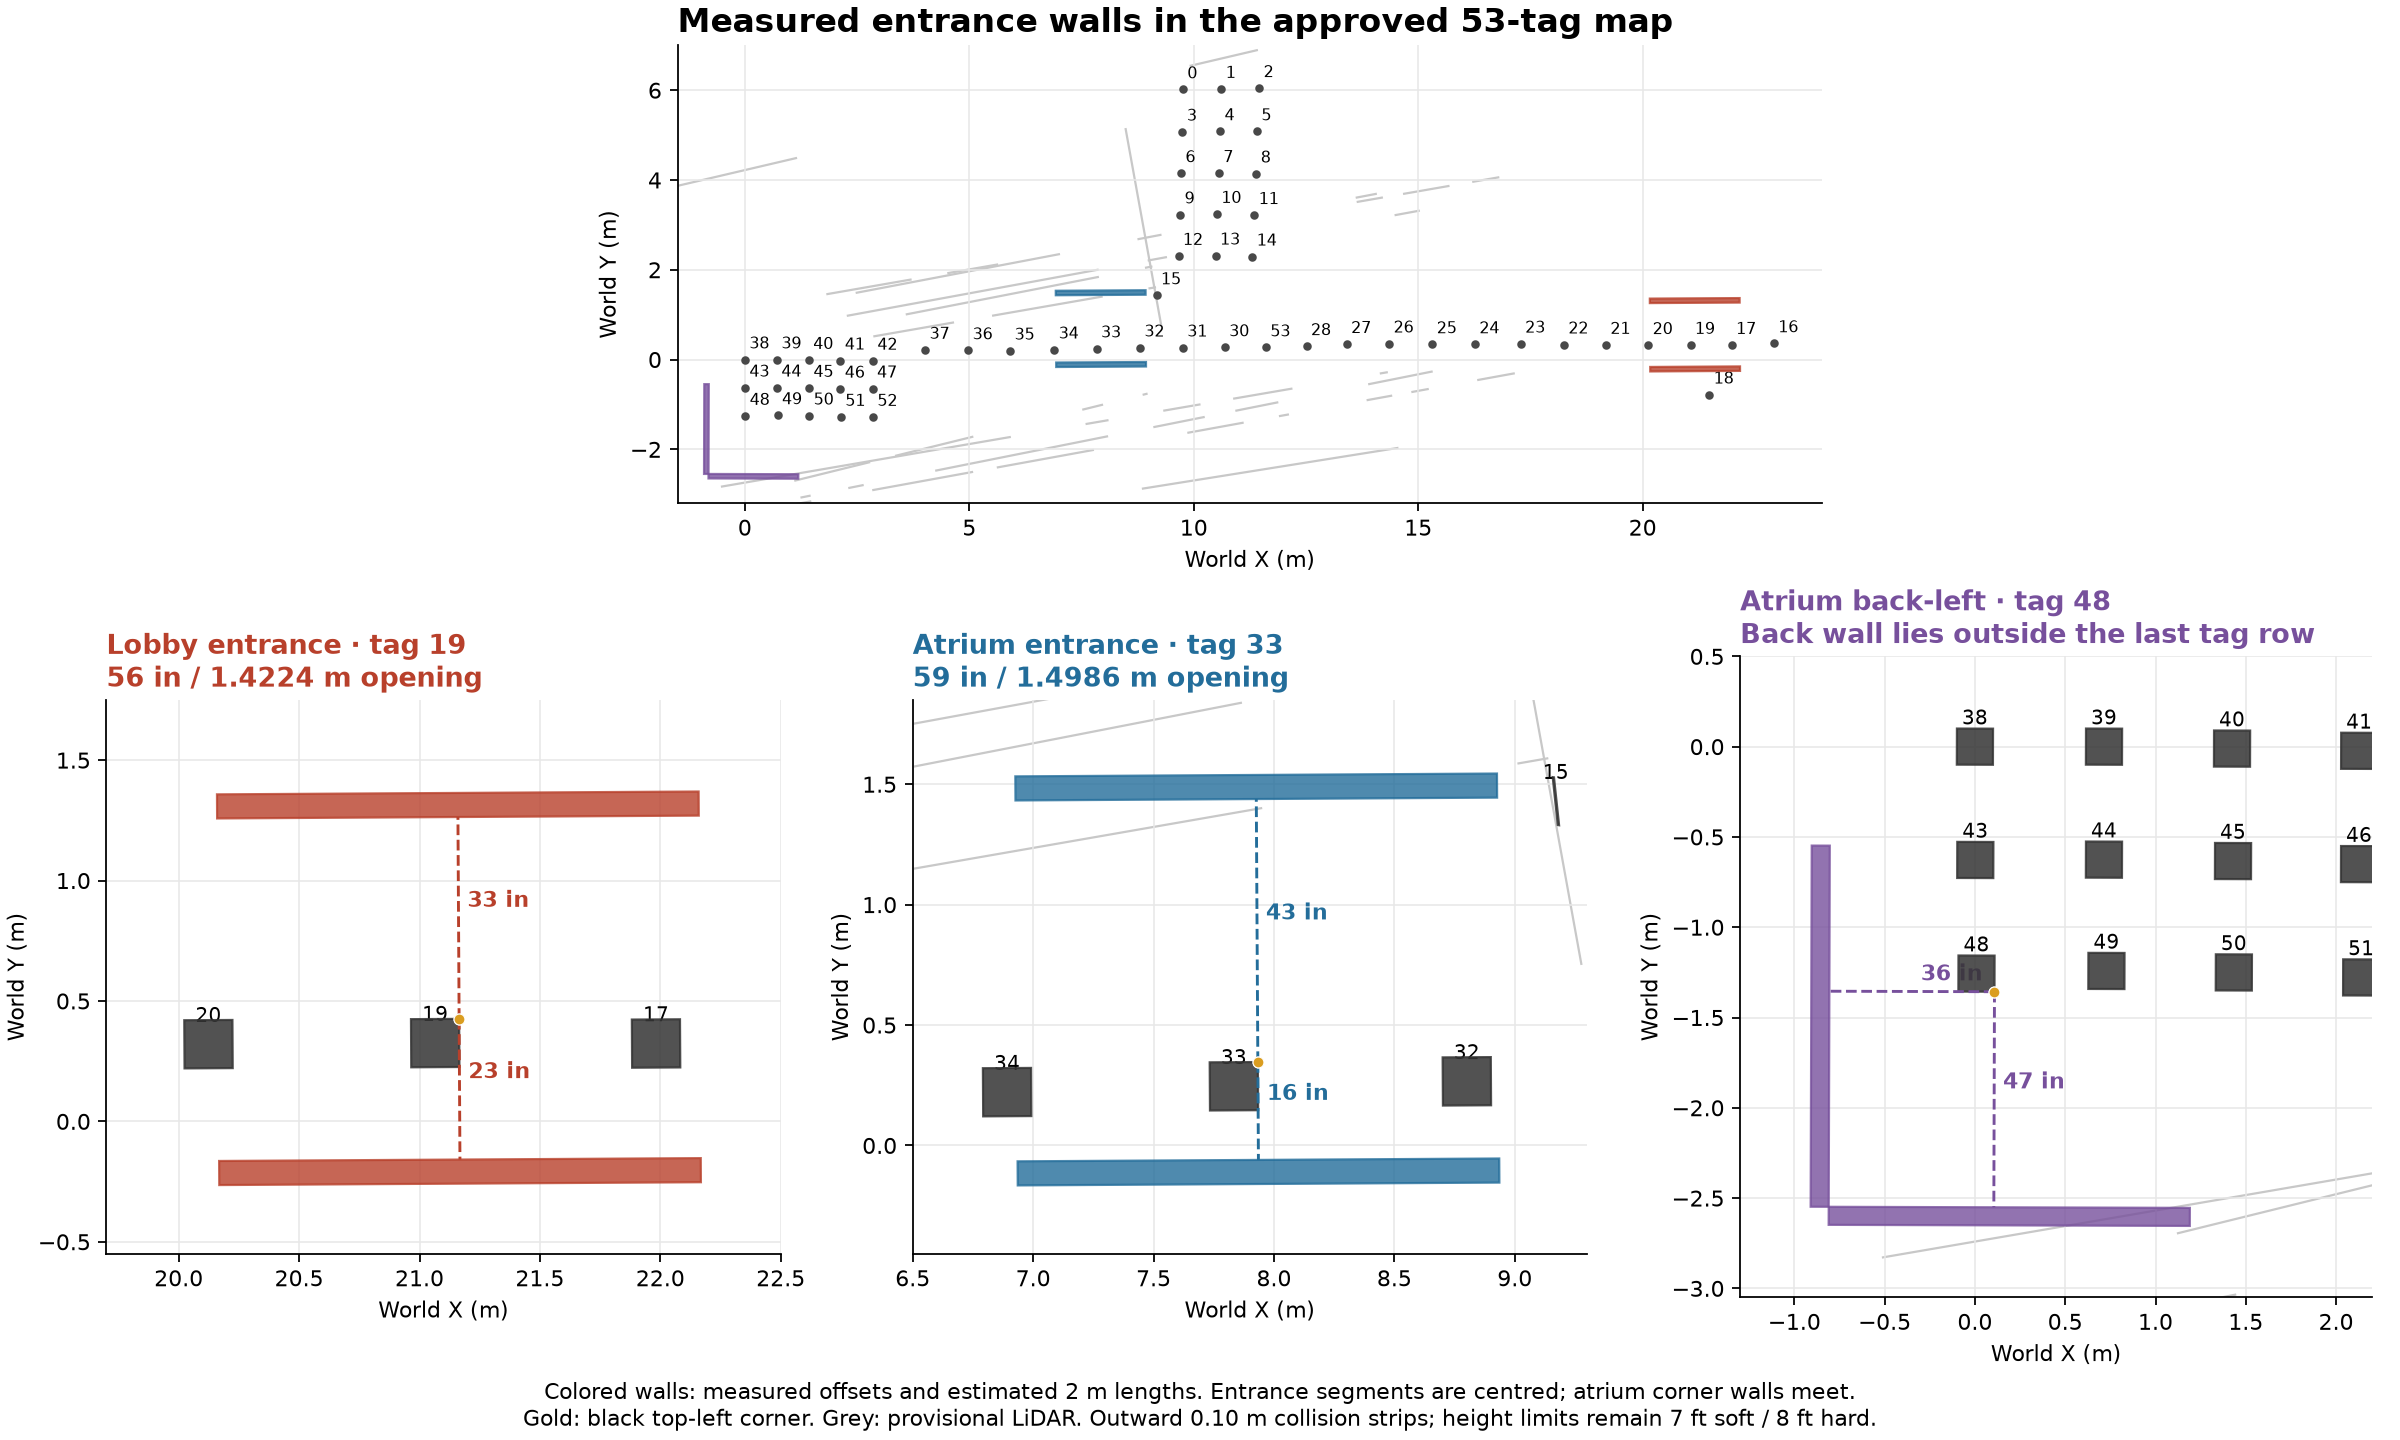
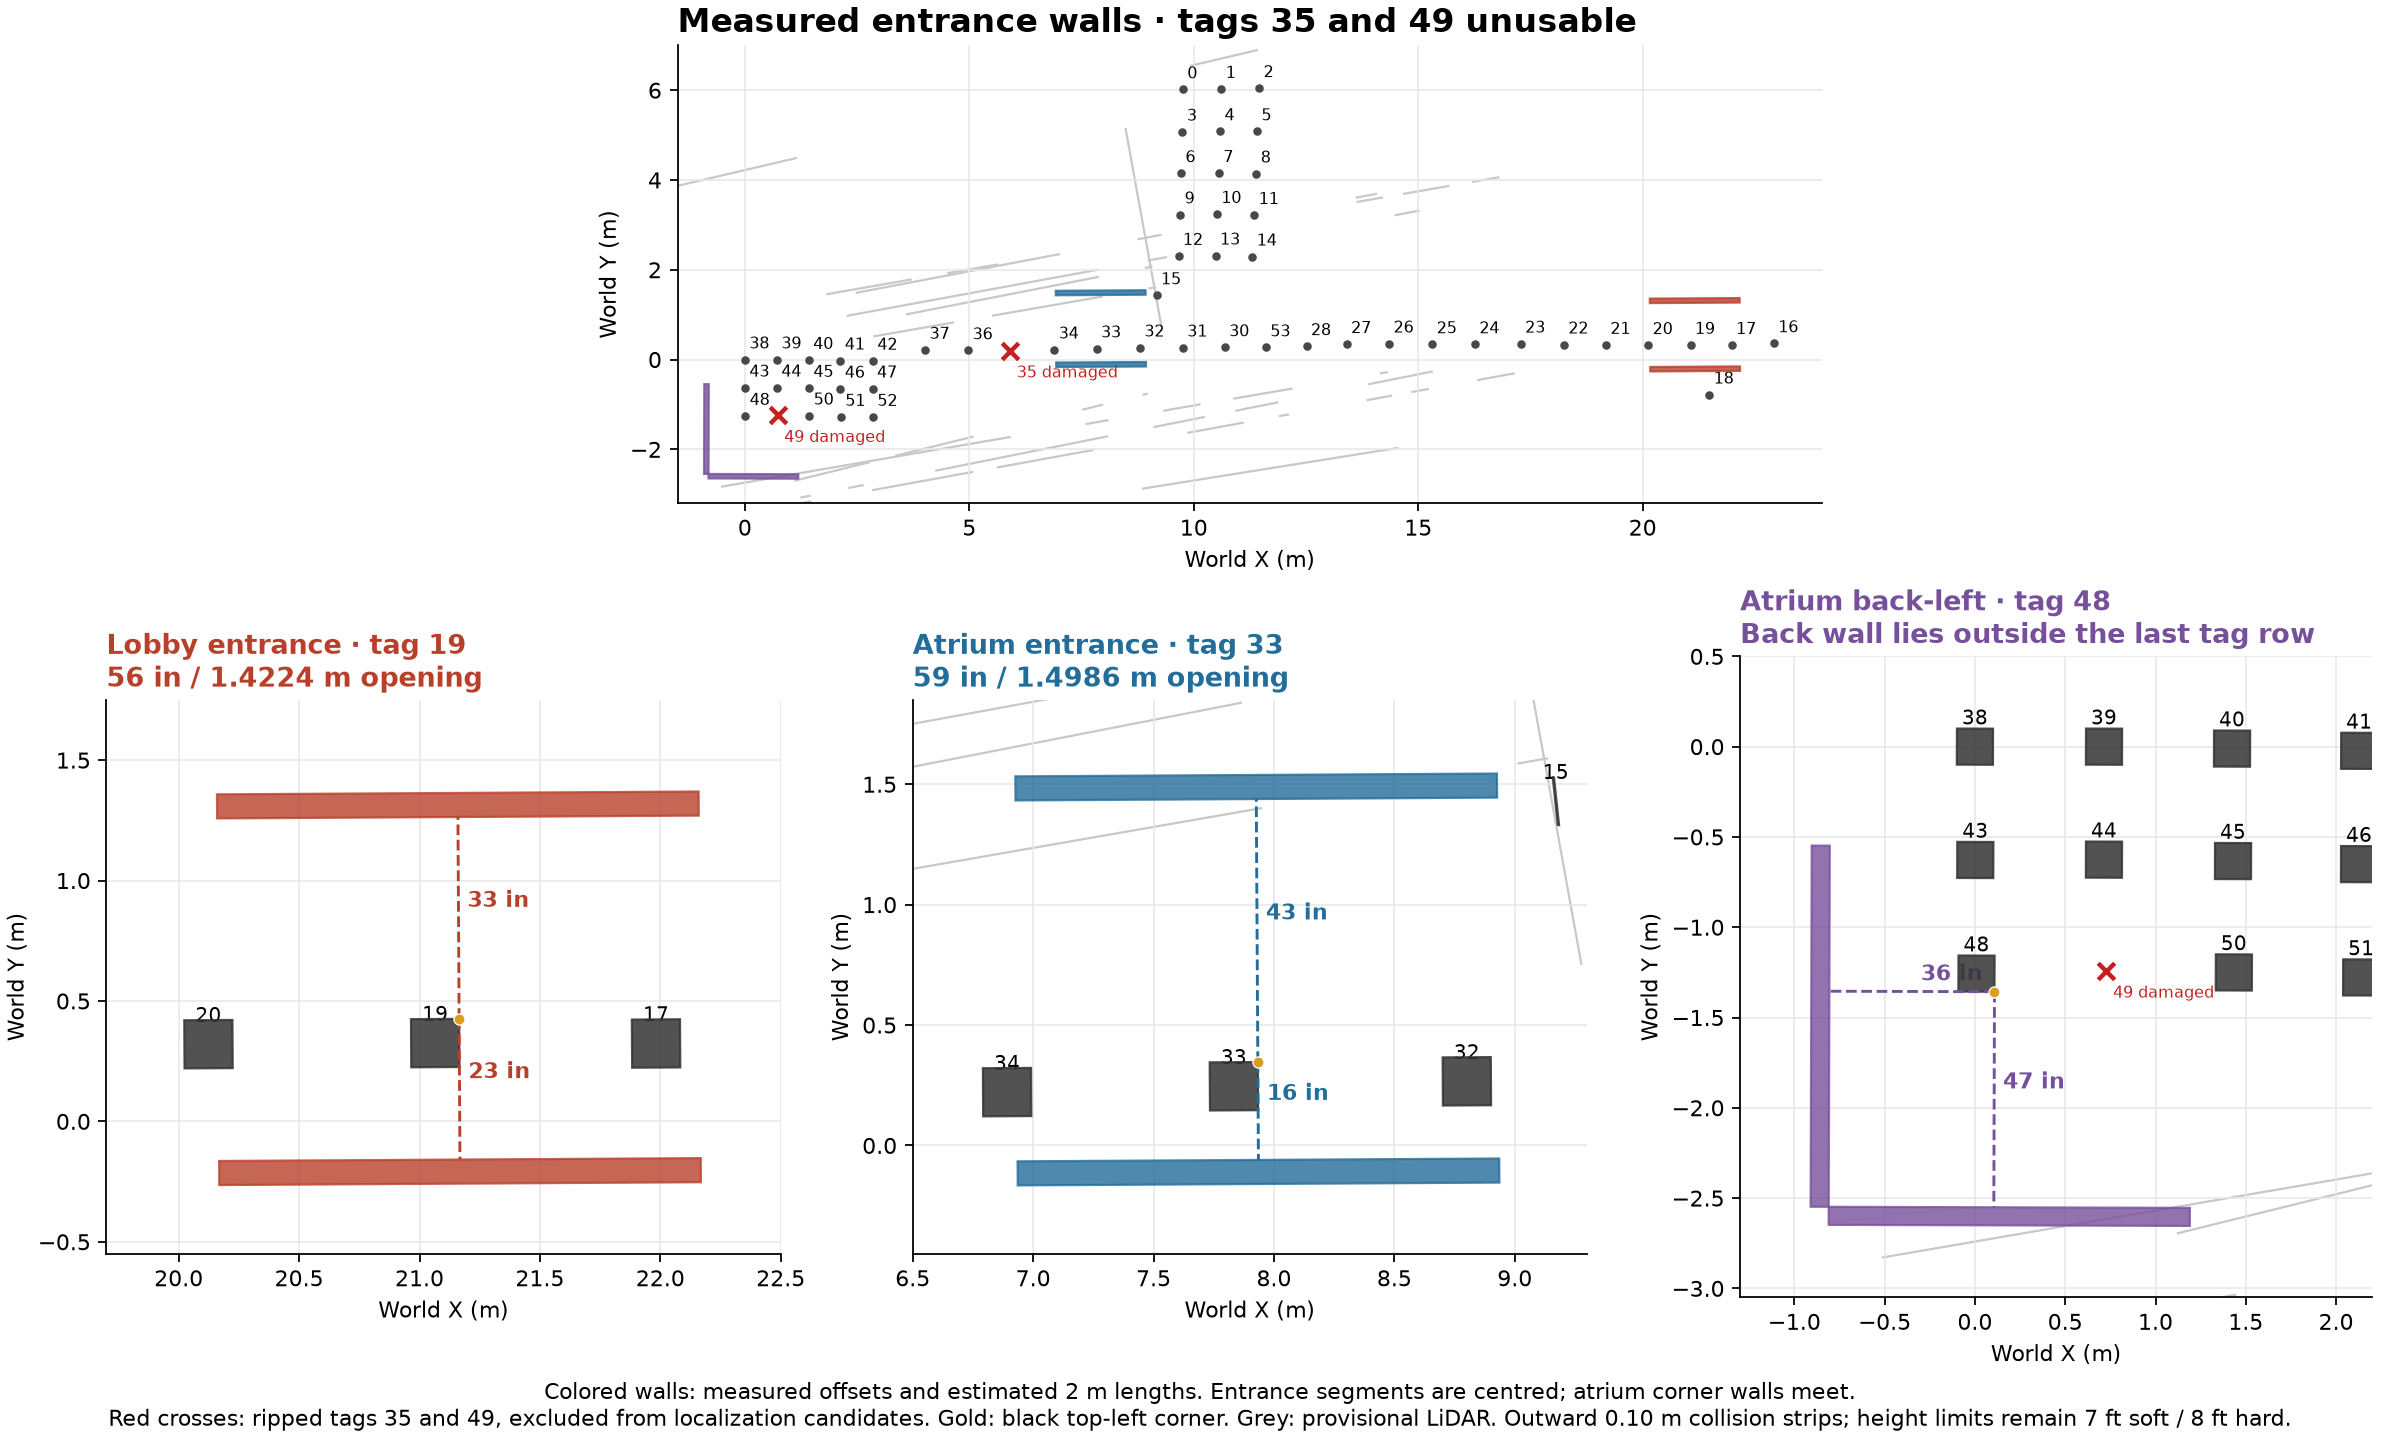
Record ripped tags 35 and 49 and exclude localization candidates

diff --git a/tools/prepare_real_navigation_package.py b/tools/prepare_real_navigation_package.py
@@ -136,11 +136,46 @@ def _map_approval(path: Path | None, source_digest: str) -> dict[str, object]:
     return {**approval, "status": "accepted"}
 
 
+def _tag_availability(path: Path | None, source_digest: str) -> dict[str, object]:
+    unavailable_tags: list[dict[str, int | str]] = []
+    if path is not None:
+        availability = _load(path)
+        if (
+            type(availability.get("schemaVersion")) is not int
+            or availability.get("schemaVersion") != 1
+            or availability.get("sourceSha256") != source_digest
+        ):
+            raise ValueError("tag availability must bind the exact source")
+        records = availability.get("unavailableTags")
+        if not isinstance(records, list):
+            raise ValueError("tag availability unavailableTags must be a list")
+        seen_tag_ids: set[int] = set()
+        for record in records:
+            if not isinstance(record, Mapping):
+                raise ValueError("tag availability entry must be an object")
+            tag_id, reason = record.get("tagId"), record.get("reason")
+            if type(tag_id) is not int or tag_id not in _EXPECTED_TAG_IDS:
+                raise ValueError("tag availability entry must name a retained tag ID")
+            if tag_id in seen_tag_ids:
+                raise ValueError("tag availability contains a duplicate tag ID")
+            if not isinstance(reason, str) or not reason.strip():
+                raise ValueError("tag availability entry must include a reason")
+            seen_tag_ids.add(tag_id)
+            unavailable_tags.append({"tagId": tag_id, "reason": reason})
+    unavailable_tag_ids = {record["tagId"] for record in unavailable_tags}
+    return {
+        "sourceSha256": source_digest,
+        "unavailableTags": unavailable_tags,
+        "localizationCandidateTagIds": sorted(_EXPECTED_TAG_IDS - unavailable_tag_ids),
+    }
+
+
 def build_package(
     source: Path,
     *,
     map_approval: Path | None = None,
     wall_measurements: Path | None = None,
+    tag_availability: Path | None = None,
 ) -> dict[str, object]:
     payload = source.read_bytes()
     raw = json.loads(payload)
@@ -153,6 +188,7 @@ def build_package(
     tag_points = _tag_points(raw)
     digest = hashlib.sha256(payload).hexdigest()
     approval = _map_approval(map_approval, digest)
+    availability = _tag_availability(tag_availability, digest)
     accepted = approval["status"] == "accepted"
     areas = [_area(*specification, tag_points) for specification in _AREAS]
     package = {
@@ -167,6 +203,7 @@ def build_package(
             "intentionallyAbsentTagIds": [29],
         },
         "mapApproval": approval,
+        "tagAvailability": availability,
         "semanticCatalogSeed": {
             "destinations": [
                 {"destinationId": area["zoneId"], "name": area["name"], "aliases": area["aliases"]}
@@ -244,11 +281,13 @@ def main() -> None:
     parser.add_argument("--output", type=Path, required=True)
     parser.add_argument("--map-approval", type=Path)
     parser.add_argument("--wall-measurements", type=Path)
+    parser.add_argument("--tag-availability", type=Path)
     arguments = parser.parse_args()
     package = build_package(
         arguments.source,
         map_approval=arguments.map_approval,
         wall_measurements=arguments.wall_measurements,
+        tag_availability=arguments.tag_availability,
     )
     arguments.output.parent.mkdir(parents=True, exist_ok=True)
     arguments.output.write_text(json.dumps(package, indent=2, sort_keys=True) + "\n")

diff --git a/tools/test_prepare_real_navigation_package.py b/tools/test_prepare_real_navigation_package.py
@@ -145,3 +145,78 @@ def test_duplicate_tag_cannot_silently_replace_approved_geometry(tmp_path):
 
     with pytest.raises(ValueError, match="duplicate tag"):
         build_package(source)
+
+
+def _tag_availability(source, unavailable_tags) -> dict[str, object]:
+    return {
+        "schemaVersion": 1,
+        "sourceSha256": hashlib.sha256(source.read_bytes()).hexdigest(),
+        "unavailableTags": unavailable_tags,
+    }
+
+
+def test_stages_unavailable_tags_as_localization_exclusions_only(tmp_path) -> None:
+    source = tmp_path / "map.json"
+    source.write_text(json.dumps(_source()))
+    availability = tmp_path / "tag-availability.json"
+    availability.write_text(
+        json.dumps(
+            _tag_availability(
+                source,
+                [
+                    {"tagId": 49, "reason": "ripped and unusable"},
+                    {"tagId": 35, "reason": "ripped and unusable"},
+                ],
+            )
+        )
+    )
+
+    package = build_package(source, tag_availability=availability)
+
+    assert package["tagAvailability"] == {
+        "sourceSha256": hashlib.sha256(source.read_bytes()).hexdigest(),
+        "unavailableTags": [
+            {"tagId": 49, "reason": "ripped and unusable"},
+            {"tagId": 35, "reason": "ripped and unusable"},
+        ],
+        "localizationCandidateTagIds": [
+            tag_id for tag_id in [*range(29), *range(30, 54)] if tag_id not in {35, 49}
+        ],
+    }
+    assert package["activation"] == "blocked"
+    assert all(
+        not area["flightAuthorization"]["enabled"] for area in package["formationAreaDrafts"]
+    )
+
+
+@pytest.mark.parametrize(
+    "unavailable_tags,error",
+    [
+        ([{"tagId": 35, "reason": "ripped"}, {"tagId": 35, "reason": "unusable"}], "duplicate"),
+        ([{"tagId": 29, "reason": "missing"}], "retained tag ID"),
+        ([{"tagId": "35", "reason": "ripped"}], "retained tag ID"),
+        ([{"tagId": 35, "reason": "  "}], "include a reason"),
+    ],
+)
+def test_rejects_duplicate_or_unretained_tag_availability_entries(
+    tmp_path, unavailable_tags, error
+) -> None:
+    source = tmp_path / "map.json"
+    source.write_text(json.dumps(_source()))
+    availability = tmp_path / "tag-availability.json"
+    availability.write_text(json.dumps(_tag_availability(source, unavailable_tags)))
+
+    with pytest.raises(ValueError, match=error):
+        build_package(source, tag_availability=availability)
+
+
+def test_rejects_tag_availability_for_a_different_source(tmp_path) -> None:
+    source = tmp_path / "map.json"
+    source.write_text(json.dumps(_source()))
+    availability = tmp_path / "tag-availability.json"
+    record = _tag_availability(source, [{"tagId": 35, "reason": "ripped"}])
+    record["sourceSha256"] = "0" * 64
+    availability.write_text(json.dumps(record))
+
+    with pytest.raises(ValueError, match="exact source"):
+        build_package(source, tag_availability=availability)

diff --git a/docs/hardware-navigation-checkpoint.md b/docs/hardware-navigation-checkpoint.md
@@ -16,6 +16,12 @@ the existing height limits. The offsets are incorporated into entrance wall geom
 and the staging package. Replacement tags and complete route clearance still need
 verification during the map test.
 
+On 9 September the owner reported tags 35 and 49 ripped and unusable. The
+[availability record](../deployments/real-navigation/tag-availability-20260909.json)
+excludes them from the staging package's 51 localization candidates. The console
+preview marks both with red crosses. Their surveyed coordinates remain in the
+53-tag baseline; candidates still require hardware verification before flight.
+
 ## Software verification
 
 The combined loopback suite passed all five tests on 9 September 2026. It exercises
@@ -101,6 +107,7 @@ uv run python -m tools.prepare_real_navigation_package \
   --source deployments/real-navigation/tag-map-53.json \
   --map-approval deployments/real-navigation/map-approval.json \
   --wall-measurements deployments/real-navigation/wall-measurements-20260909.json \
+  --tag-availability deployments/real-navigation/tag-availability-20260909.json \
   --output deployments/real-navigation/real-navigation-staging.json
 ```
 
